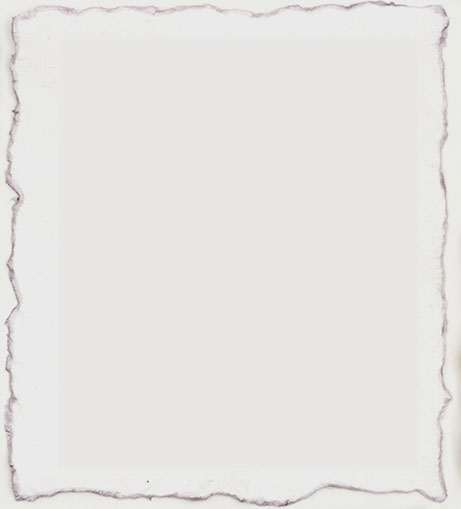
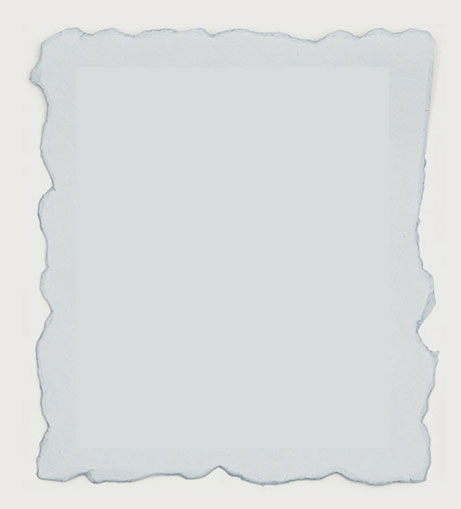
styled front page, added downloadable image

diff --git a/hammond/grid/templates/grid/main.html b/hammond/grid/templates/grid/main.html
@@ -4,10 +4,13 @@
 
 {% block content %}
     <div id="outer">
+            {% if filled.is_active %}<div class="row"><p class="centered">Click <a href="/static/images/Table_Full.jpg">here</a> for a full-sized, downloadable image</p></div>{% endif %}
         {% for square in squares %}
+
             {% if forloop.counter0|divisibleby:"11" %}<div class="row">{% endif %}
-            <div class="grid" {% if square.has_image and square.is_revealed %}style="background-image: url('/static/images/{{square.image_name}}'); background-size: cover;"{% endif %}>{% if square.has_image and not square.is_revealed %}<div class="hidden"></div>{% endif %}</div>
+            <div class="grid" {% if square.has_image %}{% if square.is_revealed %}style="background-image: url('/static/images/{{square.image_name}}'); background-size: cover;"{% else %}style="background-image: url('/static/images/blank.jpg'); background-size: cover;"{% endif %}{% endif %}></div>
             {% if forloop.counter|divisibleby:"11" %}</div>{% endif %}
+            
         {% endfor %}
     </div>
 

diff --git a/hammond/grid/templates/grid/index.html b/hammond/grid/templates/grid/index.html
@@ -3,9 +3,16 @@
 {% load staticfiles %}
 
 {% block content %}
-    {% if error_message %}<p><strong>{{error_message}}</stong></p>{% endif %}
-    <form action="{% url 'index' %}" method="post">{% csrf_token %}
-    {{form.as_p}}
-    <input type="submit" value="Submit" />
-    </form>
+    <div id="form_outer">
+        <div id="form_inner">
+            <div class="content">
+                {% if error_message %}<p><strong>{{error_message}}</stong></p>{% endif %}
+                <form action="{% url 'index' %}" method="post">{% csrf_token %}
+                    Please enter your given code: <br />
+                    {{form.code.errors}}{{form.code}} 
+                    <input type="submit" value="Submit" />
+                </form>
+            </div>
+        </div>
+    </div>
 {% endblock content %}

diff --git a/hammond/all_static/css/hammond.css b/hammond/all_static/css/hammond.css
@@ -1,10 +1,12 @@
 html {
+    height: 100%;
 }
 
 body {
     background: #eaeae8;
     margin: 0;
     padding: 0;
+    height: 100%;
 }
 
 #outer{
@@ -42,4 +44,35 @@ body {
     border: 1px solid #aaa;
     border-radius: 6px;
     background: #ddd;
+}
+
+.centered {
+    text-align: center;
+}
+
+a, a:visited {
+    color: #000;
+}
+
+a:hover {
+    color: #fdd382;
+}
+
+#form_outer{
+    display: table;
+    width: 100%;
+    height: 100%;
+}
+
+#form_inner{
+    display: table-cell;
+    vertical-align: middle;
+    margin: 0 auto;
+    text-align: center;
+}
+
+.content {
+    margin: 0 auto;
+    display: inline-block;
+    text-align: left;
 }

diff --git a/hammond/grid/views.py b/hammond/grid/views.py
@@ -8,8 +8,16 @@ from grid.forms import IndexForm
 
 def main(request):
     squares = Grid_Square.objects.all()
+    filled = Command.objects.get(command="filled")
 
-    return render(request, 'grid/main.html', {'squares':squares})
+    if not filled.is_active:
+        for square in squares:
+            if square.has_image and not square.is_revealed:
+                return render(request, 'grid/main.html', {'squares':squares, 'filled':filled})
+        filled.is_active = not filled.is_active
+        filled.save()
+
+    return render(request, 'grid/main.html', {'squares':squares, 'filled':filled})
 
 def index(request):
     if request.method == 'POST':
@@ -19,7 +27,7 @@ def index(request):
             #Match code to Commands and Image keys
             code = form.cleaned_data['code']
             squares = Grid_Square.objects.all().filter(has_image=True)
-            commands = [com.command for com in Command.objects.all().filter(is_active=True)]
+            commands = [com.command for com in Command.objects.all().filter(is_active=True).exclude(command="filled")]
 
 
             for square in squares:
@@ -34,6 +42,9 @@ def index(request):
                     for square in squares:
                         square.is_revealed=False
                         square.save()
+                        filled = Command.objects.get(command="filled")
+                        filled.is_active = False
+                        filled.save()
                 if code == 'reveal':
                     for square in squares:
                         square.is_revealed=True

diff --git a/hammond/db_inits.py b/hammond/db_inits.py
@@ -1,6 +1,6 @@
 #exec(open('db_inits.py').read())
 
-from grid.models import Grid_Square
+from grid.models import Grid_Square, Command
 
 g = Grid_Square(square_id=1, has_image=True, image_name="Split_01.jpg", image_code="Image_01")
 g.save()
@@ -200,3 +200,10 @@ g.save()
 g = Grid_Square(square_id=66, has_image=True, image_name="Split_66.jpg", image_code="Image_66")
 g.save()
 
+c = Command(command="reset", is_active=True)
+c.save()
+
+c = Command(command="reveal", is_active=True)
+c.save()
+
+c = Command(command="filled", is_active=False)
